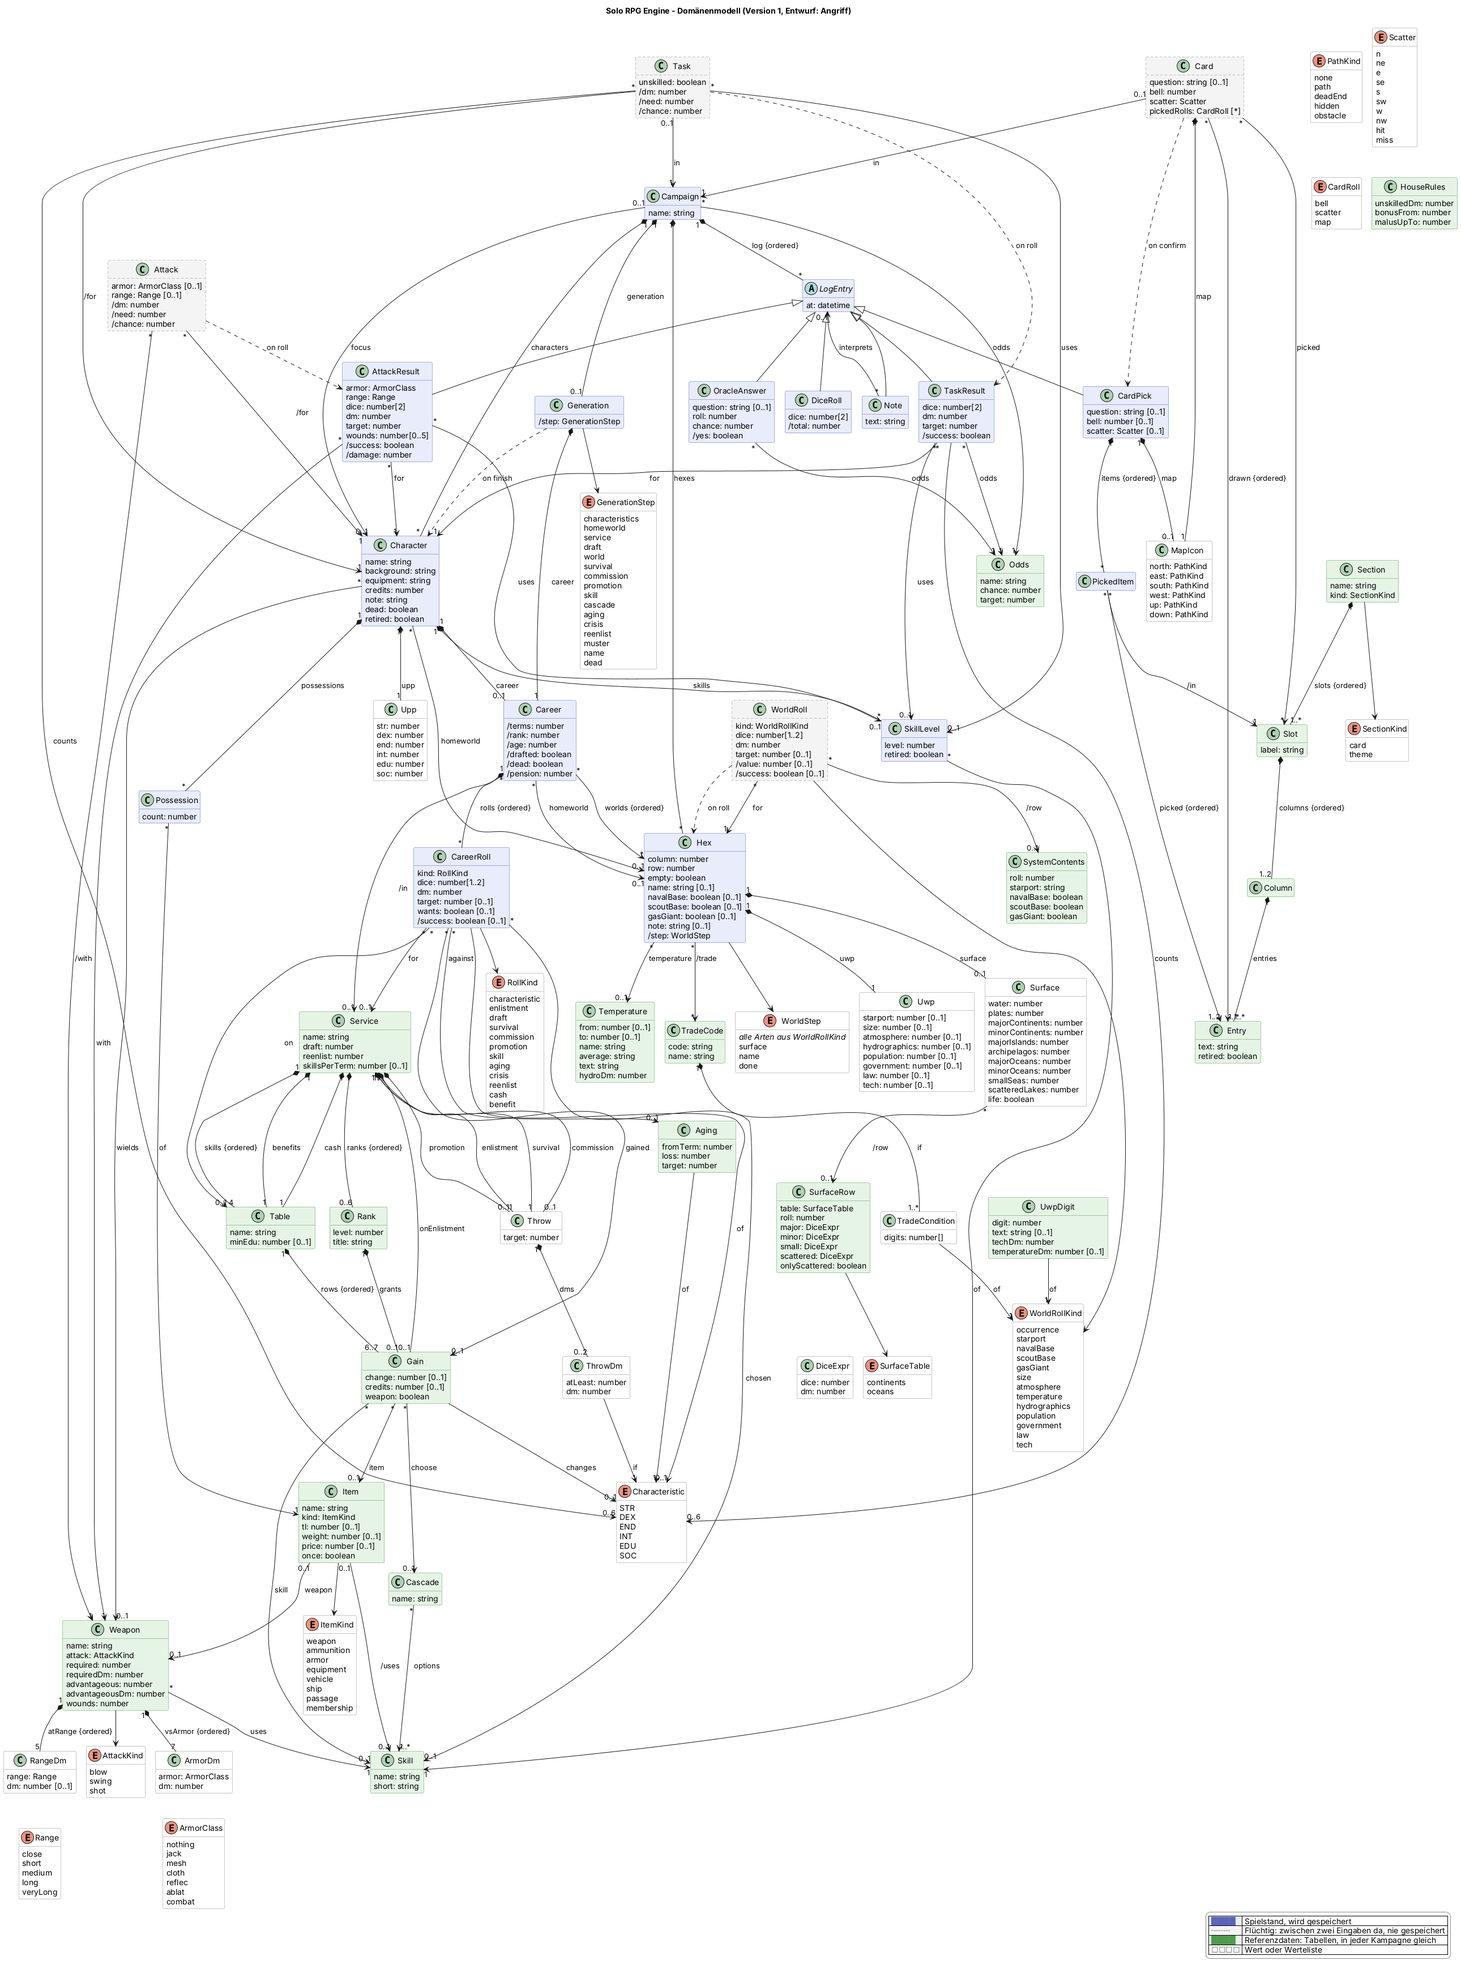
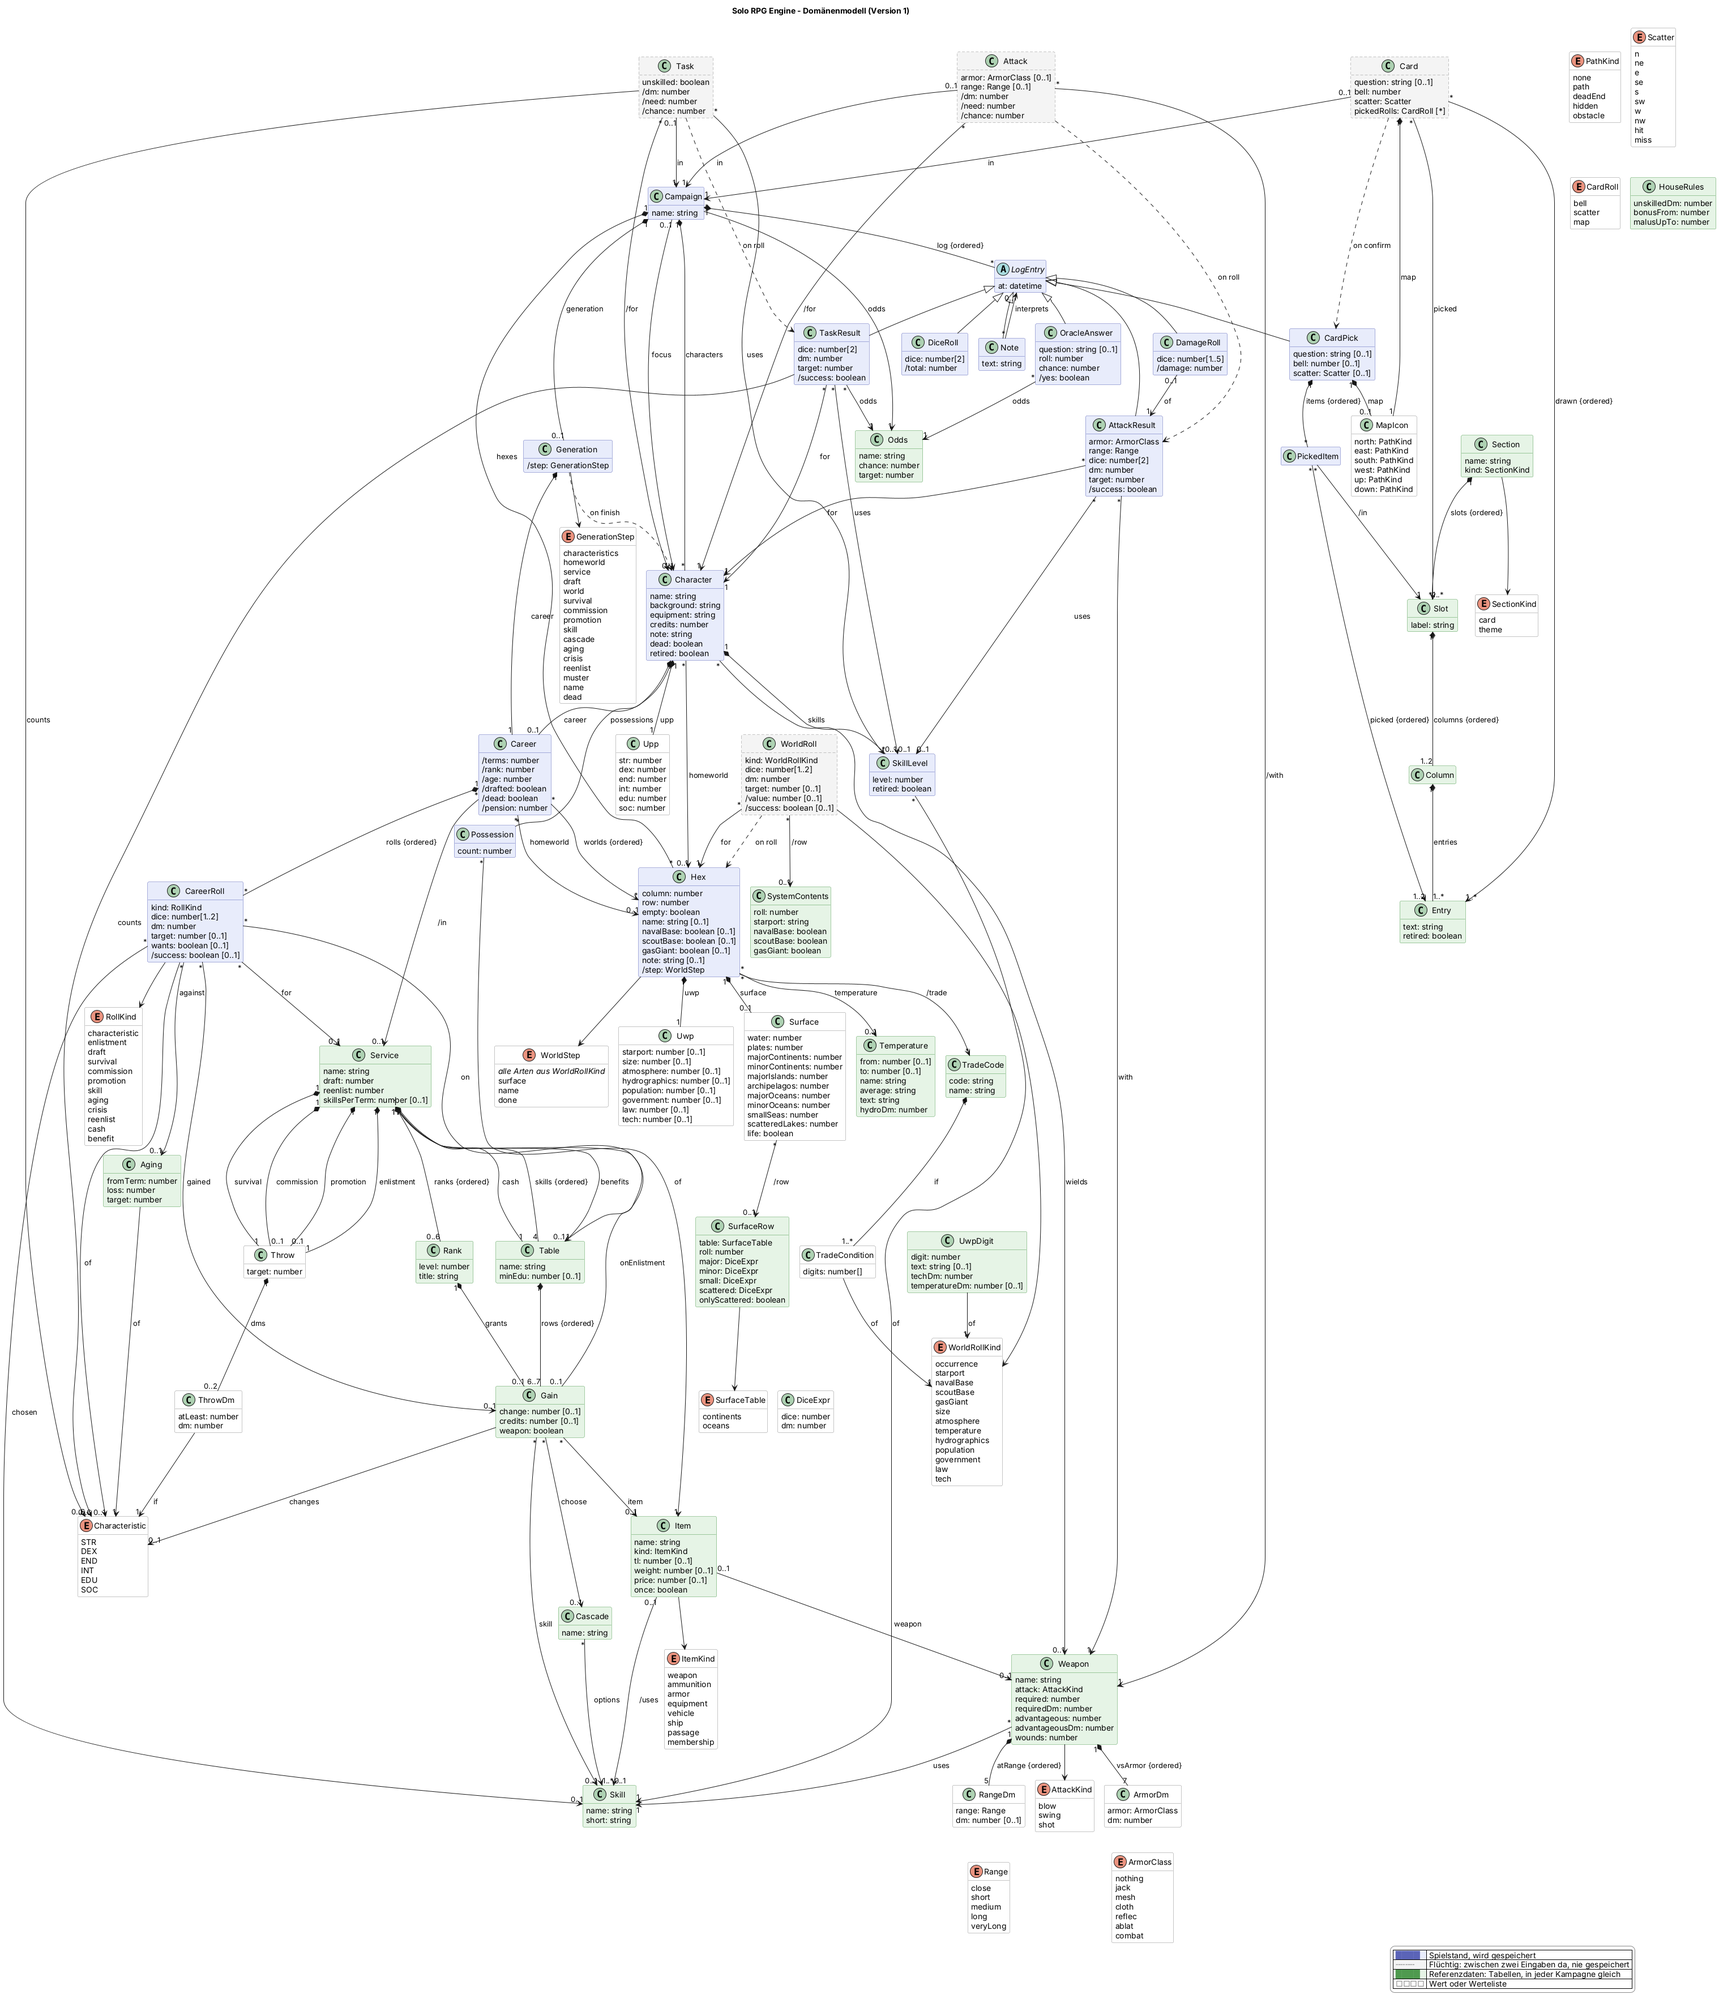
Domänenmodell: Angriff freigegeben
Schaden als eigener Wurf danach (DamageRoll verweist auf seinen Treffer),
Angriff im eigenen Reiter Kampf, Hände und Club nutzen Brawling.

Claude-Session: https://claude.ai/code/session_016ZF27yZHN9giErP6hqtVYC

diff --git a/docs/domain-model.md b/docs/domain-model.md
@@ -81,12 +81,12 @@ Lücken unter [Wo der Code noch nicht folgt](#wo-der-code-noch-nicht-folgt).
 > *Fund* weg (ausgeblendet). Der UI-Entwurf dazu liegt unter
 > [`ui-entwurf/kartensymbol/`](ui-entwurf/kartensymbol/).
 >
-> **Entwurf, noch nicht freigegeben** (3. November 2026): der **Angriff** (siehe *Waffen* und
-> *Angriff*). Neu im Bild: als Referenzdaten `Weapon` mit `ArmorDm` und `RangeDm`, die Werte
-> `AttackKind`, `ArmorClass` und `Range`, `Item.weapon`; `Item.uses` ist jetzt abgeleitet
-> (`/uses`, aus der Waffe). Am Charakter die Waffe in der Hand (`Character.wields`), flüchtig der
-> Angriff in Vorbereitung (`Attack`) und im Log das Angriffsergebnis (`AttackResult`). Offen sind
-> die Fragen unter [Offene Fragen zum Angriff](#offene-fragen-zum-angriff).
+> Ebenfalls am 3. November 2026 freigegeben: der **Angriff** im neuen Reiter *Kampf* (siehe
+> *Waffen*, *Angriff* und *Schaden*). Neu im Bild: als Referenzdaten `Weapon` mit `ArmorDm` und
+> `RangeDm`, die Werte `AttackKind`, `ArmorClass` und `Range`, `Item.weapon`; `Item.uses` ist jetzt
+> abgeleitet (`/uses`, aus der Waffe). Am Charakter die Waffe in der Hand (`Character.wields`),
+> flüchtig der Angriff in Vorbereitung (`Attack`), im Log das Angriffsergebnis (`AttackResult`)
+> und der Schadenswurf (`DamageRoll`).
 >
 > **Zurzeit** hat die Karte nur die Felder mit Einträgen aus Mythic und die Namen, alle als Paar: Aktion und
 > Beschreibung des Zufallsereignisses, Hören und Riechen, dazu die drei Wurffelder sowie die Themen-Tafeln NSC
@@ -136,7 +136,7 @@ Vacc Suit, Jack-of-all-Trades, …), Terms, Cr.
 | Orakelantwort | `OracleAnswer` | Ja oder Nein auf eine Frage |
 | Notiz | `Note` ohne `interprets` | Freier Text im Log, z. B. „Wir landen auf Regina.“ |
 | Deutung | `Note` mit `interprets` | Was man aus einem Ergebnis macht, z. B. „Die Tür ist offen, aber jemand war schon hier.“ |
-| Ergebnis | `OracleAnswer`, `DiceRoll`, `CardPick`, `TaskResult`, `AttackResult` | Ein Logeintrag, den das Orakel, die Würfel oder die Karte liefert; nur ihn kann man deuten |
+| Ergebnis | `OracleAnswer`, `DiceRoll`, `CardPick`, `TaskResult`, `AttackResult`, `DamageRoll` | Ein Logeintrag, den das Orakel, die Würfel oder die Karte liefert; nur ihn kann man deuten |
 | Schreibzeile | (Fragefeld) | Das eine Textfeld über den Knöpfen; was der Text wird, entscheidet der Knopf |
 | Würfelwurf (2W6) | `DiceRoll` | Ein einfacher Wurf mit zwei Würfeln |
 | Inspirationskarte | `Card` | Eine gezogene Karte, solange sie offen ist |
@@ -156,12 +156,14 @@ Vacc Suit, Jack-of-all-Trades, …), Terms, Cr.
 | Art des Angriffs | `AttackKind` | Schlag (*blow*, Hände), Hieb (*swing*, Klingen) oder Schuss (*shot*, Schusswaffen) |
 | Nötiges Attribut | `Weapon.required`, `requiredDm` | Darunter gibt es den DM, z. B. Cutlass unter STR 7: −2 |
 | Vorteilhaftes Attribut | `Weapon.advantageous`, `advantageousDm` | Ab da gibt es den DM, z. B. Cutlass ab STR 11: +2 |
-| Schaden | `Weapon.wounds`, `AttackResult.wounds` | Wie viele W6 ein Treffer verursacht (Rifle 3W6) bzw. was sie gezeigt haben |
+| Schaden | `Weapon.wounds` | Wie viele W6 ein Treffer verursacht, z. B. Rifle 3W6 |
 | Rüstungsklasse | `ArmorClass` | Was das Ziel trägt: Nothing, Jack, Mesh, Cloth, Reflec, Ablat, Combat |
 | Reichweite | `Range` | Close, Short, Medium, Long, Very Long |
 | Waffe in der Hand | `Character.wields` | Die Waffe, die ein Charakter gerade führt; keine heißt Hände |
 | Angriff | `Attack` | Ein Angriff, solange er für den Charakter oben vorbereitet wird |
-| Angriffsergebnis | `AttackResult` | Ein gewürfelter Angriff, bei einem Treffer mit Schaden |
+| Angriffsergebnis | `AttackResult` | Ein gewürfelter Angriff: Treffer oder nicht |
+| Schadenswurf | `DamageRoll` | Der Wurf auf den Schaden eines Treffers, z. B. 3W6 = 11 |
+| Kampf | (Reiter „Kampf“) | Der Screen für Angriffe: Charakter oben, Waffe in der Hand, Tabelle der Waffe |
 | Bereich der Karte, Themen-Tafel | `Section` | Zufallsereignis, Sinneseindrücke, …; NSC, Welt, … |
 | Feld der Karte | `Slot` | Aktion, Hören, Aussehen, Name, Auslöser, … |
 | Spalte | `Column` | Eine Liste von Einträgen in einem Feld; ein Feld hat eine oder zwei |
@@ -219,15 +221,16 @@ Vacc Suit, Jack-of-all-Trades, …), Terms, Cr.
 ## Regeln, die das Bild nicht zeigt
 
 - **Was draußen bleibt.** Was nicht gespeichert wird, gehört nicht ins Modell, außer der offenen
-  Karte und der Probe in Vorbereitung. Der Controller hält, welcher Screen offen ist, ob das
+  Karte, der Probe und dem Angriff in Vorbereitung. Der Controller hält, welcher Screen offen ist, ob das
   Ergebnis-Popup zu sehen ist und welche Weltkarte offen ist. Ob die Leiste mit dem Charakter oben
   eingeklappt ist, merkt sich das Gerät über einen Neustart hinweg, wie die offene Kampagne; zum
   Spielstand gehört das nicht. Reine Darstellung bleibt in der View: wie Felder und Tafeln angeordnet sind, ob das Menü offen ist, der
   Text im Fragefeld während des Tippens, Farben, die Hex-Schreibweise der UPP und das Format der
   Uhrzeit.
 - **Entwürfe.** Im Paket `draft` liegen die Entwürfe eines Logeintrags: die offene Karte (`Card`,
-  wird beim Bestätigen zum `CardPick`) und die Probe in Vorbereitung (`Task`, wird beim Würfeln zum
-  `TaskResult`). Je Kampagne gibt es höchstens eine offene Karte und höchstens eine Probe. Pfeile
+  wird beim Bestätigen zum `CardPick`) die Probe in Vorbereitung (`Task`, wird beim Würfeln zum
+  `TaskResult`) und der Angriff in Vorbereitung (`Attack`, wird beim Würfeln zum `AttackResult`).
+  Je Kampagne gibt es höchstens eine offene Karte, höchstens eine Probe und höchstens einen Angriff. Pfeile
   führen nur aus `draft` heraus, nie hinein: Der gespeicherte Stand weiß nichts von seinen
   Entwürfen. Entwürfe werden nie gespeichert; beendet das Handy die App, sind sie weg. Ebenso flüchtig ist der Wurf
   der Weltenerschaffung (`WorldRoll`, siehe dort): Gespeichert wird nur, was er ins Hexfeld einträgt.
@@ -236,7 +239,7 @@ Vacc Suit, Jack-of-all-Trades, …), Terms, Cr.
   die letzte lässt sich nicht löschen. Jede hat einen Namen, der nicht leer ist und sich ändern
   lässt; zwei Kampagnen dürfen gleich heißen. Gespielt wird immer in genau einer, der **offenen
   Kampagne**. Welche das ist, merkt sich das Gerät über einen Neustart hinweg; zum Spielstand gehört
-  das nicht. Wechselt man die Kampagne, sind offene Karte und Probe in Vorbereitung weg. Eine neue
+  das nicht. Wechselt man die Kampagne, sind offene Karte, Probe und Angriff in Vorbereitung weg. Eine neue
   Kampagne beginnt leer: ohne Charaktere (also ohne Charakter oben), ohne Log, ohne Hexfelder, mit der Stufe Mittel. Eine Kampagne löschen
   löscht alles, was an ihr hängt, endgültig.
 - **Kampagnendatei.** Eine Kampagne lässt sich als Datei exportieren und wieder importieren. Die
@@ -275,7 +278,7 @@ Vacc Suit, Jack-of-all-Trades, …), Terms, Cr.
   Karte ziehen), eine Deutung oder eine Notiz; einen Modus gibt es nicht. Beide sind ein `Note` mit
   Text, der nicht leer ist (Leerraum am Rand fällt weg).
   - Eine **Deutung** verweist auf genau ein Ergebnis (`interprets`): eine Orakelantwort, einen Wurf,
-    eine Kartenauswahl oder eine Probe, nie auf eine Notiz oder Deutung, und immer auf einen
+    eine Kartenauswahl, eine Probe, einen Angriff oder einen Schadenswurf, nie auf eine Notiz oder Deutung, und immer auf einen
     früheren Eintrag. Vorgeschlagen ist das neueste Ergebnis; Antippen eines anderen Ergebnisses im
     Log macht es zum Ziel. Ein Ergebnis kann mehrere Deutungen haben.
   - Eine **Notiz** verweist auf nichts; sie steht für sich im Log.
@@ -285,8 +288,9 @@ Vacc Suit, Jack-of-all-Trades, …), Terms, Cr.
     geschrieben wurde; ihre eigene Zeit behält sie. Das ist Sache der Anzeige: Die Reihenfolge im Log
     bleibt die der Ereignisse.
   - **Ein Ergebnis löschen löscht seine Deutungen mit.** Die Rückfrage sagt das („Eintrag mit
-    1 Deutung endgültig löschen?“). Eine Deutung allein lässt sich löschen, ihr Ergebnis bleibt. Das
-    ist die einzige Stelle, an der ein Logeintrag auf einen anderen verweist; die Regel *Worauf der
+    1 Deutung endgültig löschen?“). Eine Deutung allein lässt sich löschen, ihr Ergebnis bleibt. Außer
+    dem Schadenswurf (siehe *Angriff*) ist das die einzige Stelle, an der ein Logeintrag auf einen
+    anderen verweist; die Regel *Worauf der
     Log verweist, wird nie gelöscht* gilt für Charaktere und Referenzdaten, nicht für den Log selbst.
   - Die **Kampagnendatei** enthält Deutungen und Notizen; beim Import muss jede Deutung auf ein
     früheres Ergebnis derselben Datei verweisen, sonst wird nichts importiert.
@@ -369,6 +373,10 @@ Vacc Suit, Jack-of-all-Trades, …), Terms, Cr.
   - *Attribut*: STR bzw. DEX des Angreifers unter dem nötigen Wert gibt `requiredDm`, ab dem
     vorteilhaften Wert `advantageousDm`, dazwischen ±0. Das ist nicht die Hausregel ±1 der Probe;
     die Hausregeln und die gewählte Stufe (`odds`) zählen beim Angriff nicht.
+  - Angriffe würfelt man im Reiter **Kampf**. Oben steht dort dieselbe Leiste wie im Orakel-Screen,
+    mit dem Charakter oben; Wischen wählt den Charakter, für den man angreift. Statt der
+    Fertigkeiten zeigt die Leiste dort die Waffen: die Hände und die Waffen aus seinem Besitz, die
+    Waffe in der Hand hervorgehoben; antippen wechselt sie.
   - Der Angriff in Vorbereitung ist ein `Attack`, flüchtig im Paket `draft` wie die Probe. Er gilt
     immer dem Charakter oben (`/for`) und seiner Waffe in der Hand (`/with`). Man wählt Rüstung
     und Reichweite des Ziels; erst mit beiden gibt es DM, nötigen Wurf (8 − DM) und Chance, exakt
@@ -379,12 +387,21 @@ Vacc Suit, Jack-of-all-Trades, …), Terms, Cr.
   - Gewürfelt wird ein Angriff als `AttackResult` in den Log übernommen. Es verweist auf
     Charakter, Waffe und, wenn er sie hat, seine Fertigkeitsstufe darin; es hält Rüstung,
     Reichweite, die zwei Würfel sowie DM und Zielwert fest. Der Erfolg (`/success`: Würfel + `dm` ≥
-    `target`) folgt allein daraus. Trifft der Angriff, würfelt die App im selben Zug den Schaden:
-    so viele W6, wie die Waffe `wounds` hat, einzeln festgehalten (`wounds`); `/damage` ist ihre
-    Summe. Ohne Treffer gibt es keinen Schaden.
+    `target`) folgt allein daraus. Der Angriff bleibt danach offen, sodass man gleich noch einmal
+    angreifen kann.
   - Ein Angriffsergebnis ist ein Ergebnis wie das Probenergebnis: Man kann es deuten, und die
     Fertigkeitsstufe und der Charakter, auf die es verweist, werden nicht gelöscht, sondern
     ausgeblendet (siehe *Löschen und Ausblenden*).
+  - **Schaden.** Nach einem Treffer bietet der Reiter Kampf an, den Schaden zu würfeln: so viele W6,
+    wie die Waffe `wounds` hat. Er wird ein eigener Logeintrag, der Schadenswurf (`DamageRoll`), der
+    auf seinen Treffer verweist (`of`) und die Würfel einzeln festhält; `/damage` ist ihre Summe. Für
+    jeden Treffer gibt es höchstens einen Schadenswurf, für einen Fehlschlag keinen. Angeboten wird
+    er für den neuesten Treffer im Log, solange es dafür noch keinen gibt; der Log zeigt ihn unter
+    seinem Treffer, im selben Kasten. Ein Angriffsergebnis löschen löscht seinen Schadenswurf mit,
+    wie seine Deutungen; den Schadenswurf allein zu löschen lässt den Treffer stehen, und man kann
+    neu würfeln. In der Kampagnendatei muss jeder Schadenswurf auf einen früheren Treffer derselben
+    Datei verweisen, auf den kein anderer verweist, und so viele Würfel haben, wie die Waffe
+    `wounds` hat.
   - **Später**: DMs des Verteidigers (Parieren, Ausweichen, Deckung), Zubehör, Dunkelheit,
     Überraschung, Autofeuer, Schrot, geschwächte Hiebe, die eigene Rüstung eines Charakters, Angriffe
     auf Charaktere und Schaden an Attributen verteilen (Bewusstlosigkeit, Tod), Munition.
@@ -785,16 +802,6 @@ Vacc Suit, Jack-of-all-Trades, …), Terms, Cr.
   (communications routes), Subsector Capital, ein Name für den Subsektor, mehrere Subsektoren zu
   einem Sektor und eine fertige Welt wieder löschen.
 
-## Offene Fragen zum Angriff
-
-1. **Hände und Club mit Brawling?** Die Charts nennen zu Hands und Club keine Fertigkeit; im
-   Entwurf nutzen beide Brawling. Sonst hätten sie keine und zählten immer Stufe 0.
-2. **Schaden gleich mitwürfeln?** Im Entwurf würfelt die App bei einem Treffer den Schaden im
-   selben Zug. Sonst wäre der Schaden ein eigener Wurf danach.
-3. **Wo liegt der Angriff?** Vorschlag: im Orakel-Screen. Die Leiste oben zeigt die Waffe in der
-   Hand (z. B. „Rifle-1“); sie antippen öffnet den Angriff mit Auswahl der Waffe und der Tabelle,
-   das Ergebnis kommt in den Log wie bei einer Probe. Das Modell ändert sich dadurch nicht.
-
 ## Wo der Code noch nicht folgt
 
 Der Code für Version 1 liegt unter `src/` (siehe [ARCHITECTURE.md](../ARCHITECTURE.md)). Er folgt dem
@@ -807,9 +814,9 @@ Diagramm mit diesen Ausnahmen:
 - **`Note → LogEntry : interprets`** ist im Code die Stelle des gedeuteten Ergebnisses im Log (eine
   Zahl), weil Logeinträge keine eigene Id haben. Löschen rückt die Stellen nach, sodass jede Deutung
   weiter auf ihr Ergebnis zeigt; damit ist der Verweis erfüllt.
-- **`Card → Campaign : in` und `Task → Campaign : in`** sind im Code kein Feld. Der Controller hält
-  höchstens eine offene Karte und höchstens eine Probe, beide immer zur offenen Kampagne; beim
-  Wechsel der Kampagne verfallen sie. Damit ist die Multiplizität erfüllt.
+- **`Card → Campaign : in`, `Task → Campaign : in` und `Attack → Campaign : in`** sind im Code
+  kein Feld. Der Controller hält höchstens eine offene Karte, höchstens eine Probe und höchstens
+  einen Angriff, alle immer zur offenen Kampagne; beim Wechsel der Kampagne verfallen sie. Damit ist die Multiplizität erfüllt.
 - **Beispielcharaktere.** Die allererste Kampagne auf einem Gerät beginnt mit Kira Vant und Jonas
   Reyl aus der README (`src/data/examples.json`), damit man gleich etwas ausprobieren kann. Das
   Modell sagt dazu nichts; die beiden lassen sich löschen, solange der Log nicht auf sie verweist.

diff --git a/README.md b/README.md
@@ -69,7 +69,7 @@ Die erste Version ist bewusst klein und **für das Smartphone** gebaut. Eine Des
 
 **UI-Entwurf:** Der klickbare Entwurf liegt in [docs/ui-entwurf](docs/ui-entwurf/).
 
-**Bewusst noch nicht in Version 1:** physisches Würfeln, Kampf, Kaufen und Verkaufen, Reisezonen, Sprungrouten, ganze Sektoren aus mehreren Subsektoren, Schiffe, NSC-Karten, Chaosfaktor, Szenen, Feinjustierung ±1, eigene Fertigkeiten, Hausregeln in der App einstellen.
+**Bewusst noch nicht in Version 1:** physisches Würfeln, Kampf über den Angriff hinaus (Verteidigung, Deckung, Schaden an Attributen), Kaufen und Verkaufen, Reisezonen, Sprungrouten, ganze Sektoren aus mehreren Subsektoren, Schiffe, NSC-Karten, Chaosfaktor, Szenen, Feinjustierung ±1, eigene Fertigkeiten, Hausregeln in der App einstellen.
 
 ---
 
